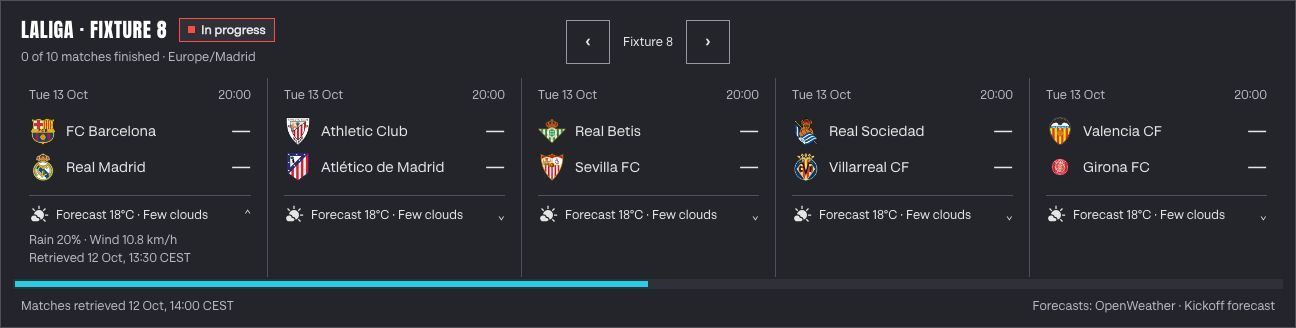
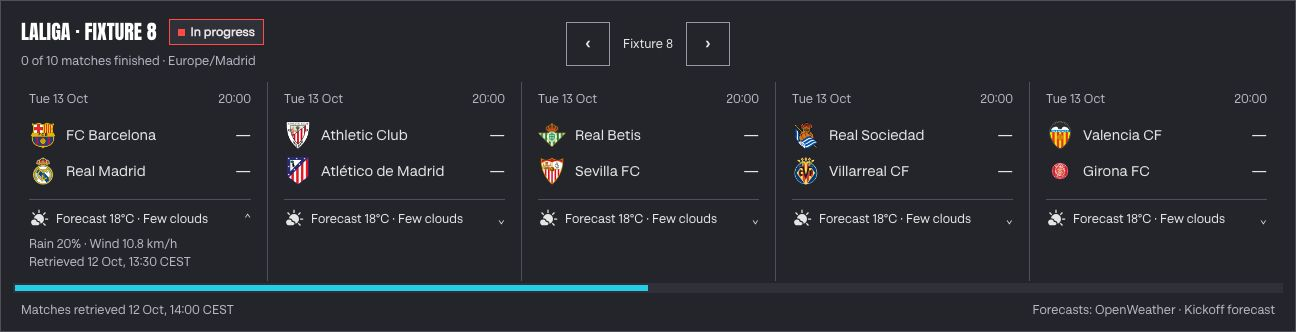
style(frontend): unify fixture and standings typography
- Add shared widget font tokens and consistent text spacing
- Align typography across panels, tables, and match details
- Update frontend documentation and lineup screenshots

diff --git a/frontend/src/features/lineup/StandingsPanels.css b/frontend/src/features/lineup/StandingsPanels.css
@@ -10,17 +10,15 @@
 .ranking-panel .rank-name { overflow-wrap: anywhere; }
 .ranking-panel .rank-row:focus-visible { outline-offset: -3px; }
 .standings-heading { display: flex; align-items: center; justify-content: space-between; gap: 8px; }
-.standings-heading .fb-card-title { font-size: 18px; }
-.standings-heading .fb-button { flex-shrink: 0; font-size: 24px; padding: 0 8px; }
+.standings-heading .fb-button { flex-shrink: 0; padding: 0 8px; }
 .standings-panel [data-slot="scroll-area-viewport"] { box-sizing:border-box; padding-bottom:10px; }
 .standings-panel .fb-scroll-bar { z-index:4; }
 .standings-panel .fb-scroll-corner { z-index:5; }
-.standings-meta, .standings-legend { margin: 4px 0 0; color: var(--fb-muted); font-size: 12px; line-height: 1.5; }
-.standings-legend { font-size: 12px; }
-.standings-error { margin: 8px 0 0; padding-left: 8px; border-left: 3px solid var(--fb-failure); font-size: 12px; line-height: 1.5; }
-.standings-placeholder { display: grid; place-items: center; min-height: 100%; padding: 16px; box-sizing: border-box; font-size: 14px; }
+.standings-meta, .standings-legend { margin: 4px 0 0; color: var(--fb-muted); font-size: var(--fb-widget-font-meta); line-height: 1.5; }
+.standings-error { margin: 8px 0 0; padding-left: 8px; border-left: 3px solid var(--fb-failure); font-size: var(--fb-widget-font-meta); line-height: 1.5; }
+.standings-placeholder { display: grid; place-items: center; min-height: 100%; padding: 16px; box-sizing: border-box; font-size: var(--fb-widget-font-body); }
 .standings-loading { min-width: 680px; padding: 8px 0; }
-.standings-loading-label { display: block; margin: 0 0 8px; color: var(--fb-muted); font-size: 12px; }
+.standings-loading-label { display: block; margin: 0 0 8px; color: var(--fb-muted); font-size: var(--fb-widget-font-meta); }
 .standings-skeleton { overflow: hidden; border-top: 1px solid var(--fb-line); }
 .standings-skeleton-row { display: grid; grid-template-columns: 32px minmax(100px, 1.6fr) repeat(7, minmax(32px, .55fr)) minmax(110px, 1.8fr); align-items: center; gap: 8px; min-height: 44px; padding: 0 6px; border-bottom: 1px solid var(--fb-line); box-sizing: border-box; }
 .standings-skeleton-cell { display: block; width: 55%; height: 10px; border-radius: 2px; background: linear-gradient(100deg, var(--fb-subtle) 25%, var(--fb-line) 45%, var(--fb-subtle) 65%); background-size: 250% 100%; animation: standings-skeleton-shimmer 1.5s ease-in-out infinite; }
@@ -32,14 +30,14 @@
   .standings-skeleton-cell { animation: none; }
 }
 
-.standings-table.fb-table { min-width: 740px; table-layout: fixed; border-collapse: separate; border-spacing: 0; font-variant-numeric: tabular-nums; }
+.standings-table.fb-table { min-width: 740px; font-size:var(--fb-widget-font-body); table-layout: fixed; border-collapse: separate; border-spacing: 0; font-variant-numeric: tabular-nums; }
 .standings-table.fb-table :is(th, td) { box-sizing: border-box; padding: 4px 6px; height: 44px; border-bottom: 1px solid var(--fb-line); text-align: right; white-space: nowrap; }
-.standings-table.fb-table thead th { position: sticky; top: 0; z-index: 2; height: 34px; background: var(--fb-subtle); }
+.standings-table.fb-table thead th { font-size:var(--fb-widget-font-meta); position: sticky; top: 0; z-index: 2; height: 34px; background: var(--fb-subtle); }
 .standings-table :is(th, td):first-child { position: sticky; left: 0; z-index: 1; width: 32px; text-align: center; background: var(--fb-surface); }
 .standings-table :is(th, td):nth-child(2) { position: sticky; left: 32px; z-index: 1; width: 140px; text-align: left; background: var(--fb-surface); border-right: 1px solid var(--fb-line); }
 .standings-table thead th:nth-child(-n+2) { z-index: 3; background: var(--fb-subtle); }
 .standings-table :is(th, td):last-child { width: 240px; text-align: left; padding-right: 16px; }
-.standings-table .standing-club { font-size: 12px; font-weight: 500; text-transform: none; letter-spacing: normal; }
+.standings-table .standing-club { font-size: var(--fb-widget-font-body); font-weight: 500; text-transform: none; letter-spacing: normal; }
 .standing-club-content { display: flex; align-items: center; gap: 6px; }
 .standing-club-badge { width: 32px; height: 32px; flex: 0 0 32px; }
 .standing-club-badge .fb-avatar { display:block; box-sizing:border-box; padding:2px; }
@@ -50,10 +48,10 @@
 .standing-form-trigger { display: inline-flex; justify-content: center; align-items: center; width: 30px; height: 32px; padding: 0; border: 0; background: transparent; cursor: pointer; }
 .standing-form-trigger:hover .fb-badge { outline: 1px solid var(--fb-secondary); }
 .standing-match-positioner { z-index: 60; }
-.standing-match-popup { max-width: min(300px, calc(100vw - 32px)); padding: 16px; background: var(--fb-surface); color: var(--fb-secondary); border: 1px solid var(--fb-control-line); font-size: 14px; line-height: 1.5; }
-.standing-match-popup h2 { margin: 0 0 8px; font-size: 18px; }
+.standing-match-popup { max-width: min(300px, calc(100vw - 32px)); padding: 16px; background: var(--fb-surface); color: var(--fb-secondary); border: 1px solid var(--fb-control-line); font-size: var(--fb-widget-font-body); line-height: 1.5; }
+.standing-match-popup h2 { margin: 0 0 8px; font-size: var(--fb-widget-font-title); }
 .standing-match-popup p { margin: 0 0 8px; }
-.standing-match-popup time { display: block; color: var(--fb-muted); font-size: 12px; }
+.standing-match-popup time { display: block; color: var(--fb-muted); font-size: var(--fb-widget-font-meta); }
 .standings-sr-only { position: absolute; width: 1px; height: 1px; padding: 0; margin: -1px; overflow: hidden; clip-path: inset(50%); white-space: nowrap; border: 0; }
 
 @media (max-width: 1099px), (max-aspect-ratio: 4/3) {

diff --git a/frontend/src/features/lineup/FixtureMatchesPanel.css b/frontend/src/features/lineup/FixtureMatchesPanel.css
@@ -6,10 +6,10 @@
 .fixture-panel-title .fb-badge { background:var(--fb-subtle); padding:3px 8px; }
 .fixture-panel-title .fixture-panel-active { border-color:var(--fb-primary); }
 .fixture-panel-active::before { content:""; display:inline-block; width:7px; height:7px; margin-right:6px; background:var(--fb-primary); }
-.fixture-panel-meta { margin:5px 0 0; color:var(--fb-muted); font-size:12px; }
+.fixture-panel-meta { margin:5px 0 0; color:var(--fb-muted); font-size:var(--fb-widget-font-meta); }
 .fixture-week-pagination { display:flex; align-items:center; gap:6px; }
 .fixture-week-pagination { justify-self:center; }
-.fixture-week-label { min-width:64px; text-align:center; font-size:12px; font-variant-numeric:tabular-nums; }
+.fixture-week-label { min-width:64px; text-align:center; font-size:var(--fb-widget-font-meta); font-variant-numeric:tabular-nums; }
 .fixture-matches-panel > .fb-card-content { flex:0 1 auto; padding:0 12px; }
 .fixture-matches-scroll { height:auto; }
 .fixture-matches-scroll > .fb-scroll-viewport { height:auto; overflow-y:hidden; }
@@ -18,14 +18,14 @@
 .fixture-match { flex:0 0 244px; width:244px; box-sizing:border-box; padding:8px 16px 10px; border-left:1px solid var(--fb-line); }
 .fixture-match:first-child { border-left:0; }
 .fixture-match.is-updating { background:var(--fb-subtle); box-shadow:inset 0 3px var(--fb-primary); }
-.fixture-match-date { display:flex; justify-content:space-between; align-items:center; gap:8px; margin:0 0 9px; color:var(--fb-muted); font-size:12px; }
+.fixture-match-date { display:flex; justify-content:space-between; align-items:center; gap:8px; margin:0 0 9px; color:var(--fb-muted); font-size:var(--fb-widget-font-meta); }
 .fixture-match-date time { white-space:nowrap; }
-.fixture-match-team { display:grid; grid-template-columns:28px minmax(0,1fr) 28px; gap:9px; align-items:center; min-height:36px; font-size:14px; }
+.fixture-match-team { display:grid; grid-template-columns:28px minmax(0,1fr) 28px; gap:9px; align-items:center; min-height:36px; font-size:var(--fb-widget-font-body); }
 .fixture-match-team > span:nth-child(2) { overflow-wrap:anywhere; }
 .fixture-match-crest { display:grid; place-items:center; width:28px; height:28px; min-width:0; overflow:hidden; }
 .fixture-match-crest > img { display:block; width:100%; height:100%; min-width:0; min-height:0; max-width:100%; max-height:100%; object-fit:contain; }
-.fixture-match-score { text-align:right; font-size:18px; font-weight:500; font-variant-numeric:tabular-nums; }
-.fixture-match-weather { margin-top:10px; padding-top:9px; border-top:1px solid var(--fb-line); font-size:12px; }
+.fixture-match-score { text-align:right; font-size:inherit; font-weight:500; font-variant-numeric:tabular-nums; }
+.fixture-match-weather { margin-top:10px; padding-top:9px; border-top:1px solid var(--fb-line); font-size:var(--fb-widget-font-meta); }
 .fixture-forecast-content { padding-top:6px; overflow-wrap:anywhere; }
 .fixture-weather-summary { cursor:pointer; list-style:none; }
 .fixture-weather-summary::-webkit-details-marker { display:none; }
@@ -35,10 +35,10 @@
 .fixture-match-weather p { margin:0; line-height:1.5; }
 .fixture-weather-summary { display:flex; align-items:center; gap:7px; }
 .fixture-weather-icon { display:block; width:20px; height:20px; flex:0 0 20px; background:currentColor; mask:var(--weather-icon) center / contain no-repeat; }
-.fixture-weather-meta { color:var(--fb-muted); font-size:12px; }
-.fixture-panel-error { margin:12px 0 0; border-left:3px solid var(--fb-failure); padding-left:12px; }
-.fixture-panel-empty { padding:20px 8px; font-size:14px; }
-.fixture-panel-footer { display:flex; justify-content:space-between; flex-wrap:wrap; gap:6px 16px; padding:8px 20px 12px; font-size:12px; color:var(--fb-muted); }
+.fixture-weather-meta { color:var(--fb-muted); font-size:var(--fb-widget-font-meta); }
+.fixture-panel-error { font-size:var(--fb-widget-font-meta); line-height:1.5; margin:12px 0 0; border-left:3px solid var(--fb-failure); padding-left:12px; }
+.fixture-panel-empty { padding:20px 8px; font-size:var(--fb-widget-font-body); }
+.fixture-panel-footer { display:flex; justify-content:space-between; flex-wrap:wrap; gap:6px 16px; padding:8px 20px 12px; font-size:var(--fb-widget-font-meta); color:var(--fb-muted); }
 .fixture-panel-footer a { color:inherit; }
 .fixture-panel-sr-only { position:absolute; width:1px; height:1px; padding:0; margin:-1px; overflow:hidden; clip-path:inset(50%); white-space:nowrap; border:0; }
 @container (min-width:1100px) { .fixture-match { flex-basis:calc(100cqw / 5 - 24px / 5); width:calc(100cqw / 5 - 24px / 5); } }
@@ -50,7 +50,6 @@
   .fixture-matches-panel > .fb-card-header { padding:14px 12px 10px; }
   .fixture-panel-heading { grid-template-columns:minmax(0,1fr); gap:10px; }
   .fixture-panel-heading > div:first-child { width:100%; }
-  .fixture-panel-title h2 { font-size:19px; }
   .fixture-week-pagination { width:100%; justify-content:center; }
   .fixture-matches-panel > .fb-card-content { padding:0 6px; }
   .fixture-match { flex-basis:248px; width:248px; padding-inline:12px; }

diff --git a/frontend/src/components/ui/StandingsPrimitives.css b/frontend/src/components/ui/StandingsPrimitives.css
@@ -9,10 +9,11 @@
   border-radius: var(--radius);
   background: var(--card);
   color: var(--card-foreground);
+  font-size: var(--fb-widget-font-body);
 }
 
 .fb-card-header { flex: none; padding: 16px 12px 0; }
-.fb-card-title { margin: 0; font: 400 20px/1.3 Anton, sans-serif; letter-spacing: .03em; }
+.fb-card-title { margin: 0; font: 400 var(--fb-widget-font-title)/1.3 Anton, sans-serif; letter-spacing: .03em; }
 .fb-card-content { flex: 1; min-width: 0; min-height: 0; padding: 0 8px 8px; }
 
 .fb-scroll-root { position: relative; width: 100%; height: 100%; min-width: 0; min-height: 0; }
@@ -45,7 +46,7 @@
   border-radius: var(--radius);
   background: var(--card);
   color: var(--card-foreground);
-  font-size: 12px;
+  font-size: var(--fb-widget-font-meta);
   font-weight: 600;
   line-height: 1.4;
   white-space: nowrap;
@@ -53,3 +54,11 @@
 .fb-badge--success { background: var(--fb-success); border-color: var(--fb-success); color: #000; }
 .fb-badge--warning { background: var(--fb-warning); border-color: var(--fb-warning); color: #000; }
 .fb-badge--failure { background: var(--fb-failure); border-color: var(--fb-failure); color: #000; }
+
+/* Keep text rhythm consistent across fixtures, standings, and result details. */
+:is(.fixture-matches-panel, .standings-panel, .standing-match-popup),
+:is(.fixture-matches-panel, .standings-panel, .standing-match-popup)
+  :is(.fb-card-title, .fb-button, .fb-badge, th, h2) {
+  letter-spacing: normal;
+  line-height: 1.5;
+}

diff --git a/frontend/src/styles/tokens.css b/frontend/src/styles/tokens.css
@@ -1,6 +1,9 @@
 :root {
   --fb-font-body:"LALIGA Text",Arial,sans-serif;
   --fb-font-size-body:clamp(14px, calc(13px + 0.15vw), 16px);
+  --fb-widget-font-title:20px;
+  --fb-widget-font-body:14px;
+  --fb-widget-font-meta:12px;
   font-family:var(--fb-font-body);
   /* Supplied face is static Regular; browsers synthesize emphasis. */
   font-synthesis:weight style;

diff --git a/docs/frontend.md b/docs/frontend.md
@@ -34,6 +34,12 @@ The app uses Base UI for dialogs, selection, menus, tooltips, collapsibles and
 toasts, with local CSS and native buttons/fields where appropriate.
 The lineup sidebar uses local shadcn Base UI Card, ScrollArea, Table, and Badge
 components, adapted to these same tokens and plain CSS.
+Fixture and standings widgets share a fixed type scale in both themes and at
+phone and desktop widths: 20px titles, 14px content (including team names and
+scores), and 12px metadata, table headings, and status badges. The
+`--fb-widget-font-*` tokens keep equivalent content consistent across panels.
+These widgets also use normal letter spacing and a shared 1.5 line height,
+including headings, table labels, buttons, and badges.
 
 Button guidelines apply throughout the application, including portaled dialogs:
 
